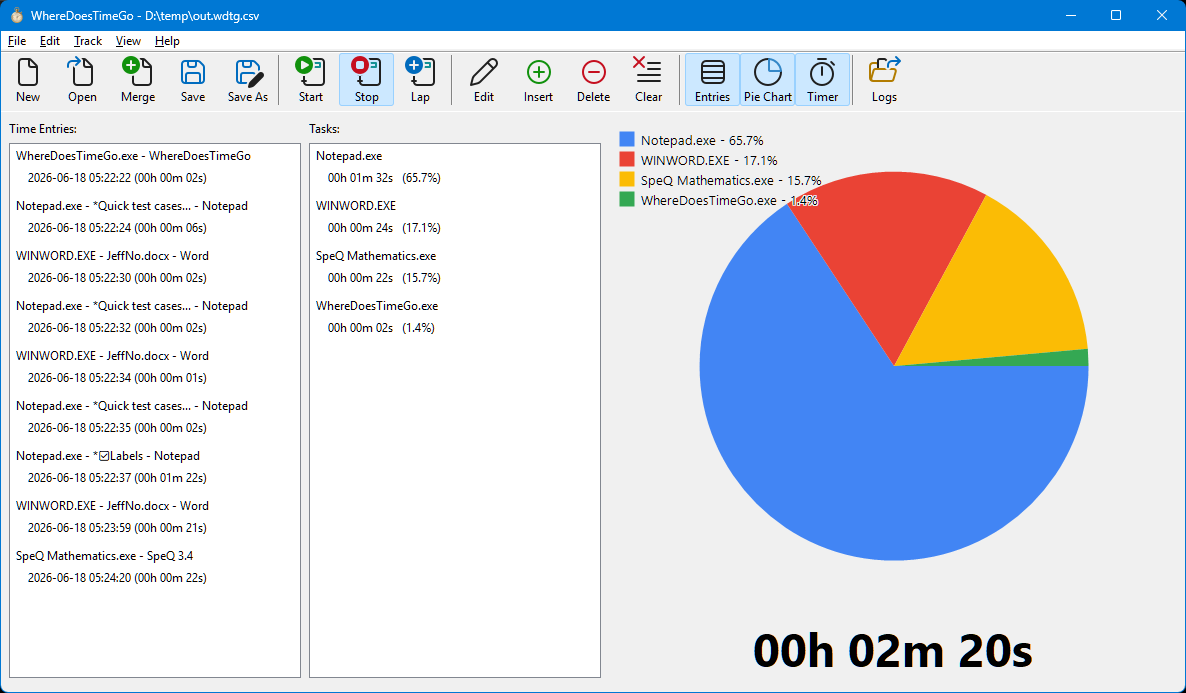
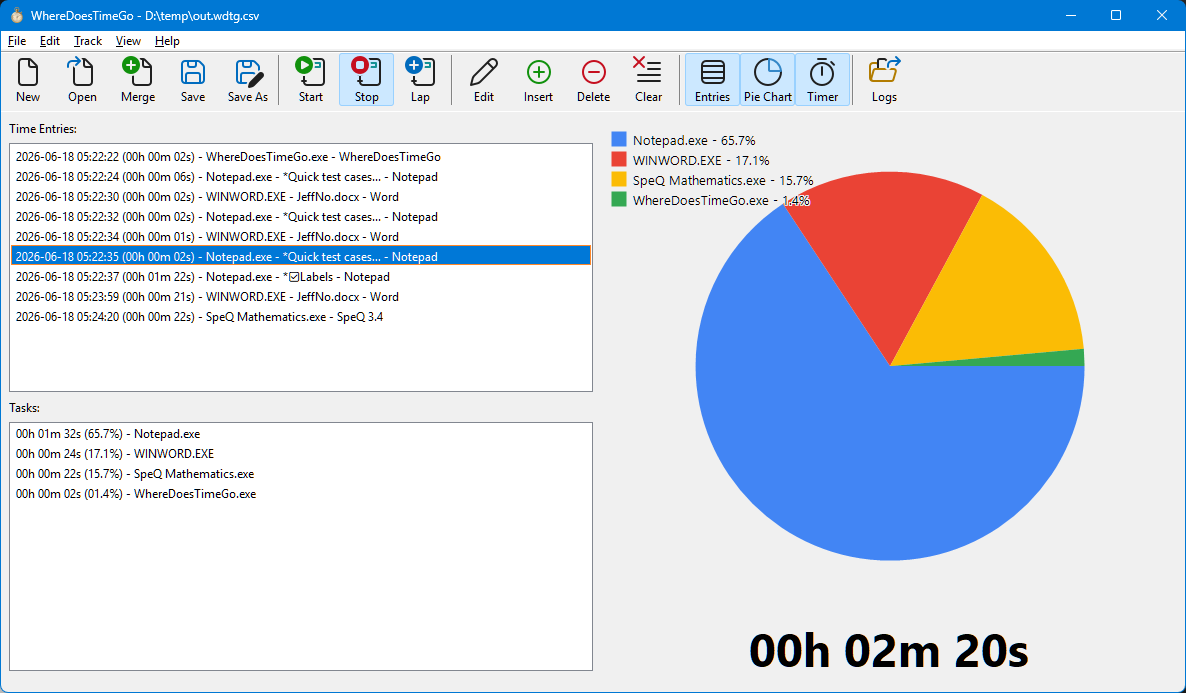
Fix open file dialog initial folder placement to use last location. Increase line spacing slightly of time records.

diff --git a/source/MainWindow.cpp b/source/MainWindow.cpp
@@ -314,8 +314,6 @@ void CreateControls(HWND hWnd)
         { ToolbarIcon::ShowTimeEntries, IDM_SHOW_TIME_ENTRIES, BYTE(TBSTATE_ENABLED | (g_showTimeEntries ? TBSTATE_CHECKED : 0)), BTNS_CHECK, {0}, 0, (INT_PTR)L"Entries" },
         { ToolbarIcon::ShowPieChart, IDM_SHOW_PIE_CHART, BYTE(TBSTATE_ENABLED | (g_showPieChart ? TBSTATE_CHECKED : 0)), BTNS_CHECK, {0}, 0, (INT_PTR)L"Pie Chart" },
         { ToolbarIcon::ShowTimer, IDM_SHOW_TIMER, BYTE(TBSTATE_ENABLED | (g_showTimer ? TBSTATE_CHECKED : 0)), BTNS_CHECK, {0}, 0, (INT_PTR)L"Timer" },
-        { 0, 0, 0, BTNS_SEP, {0}, 0, 0 },
-        { ToolbarIcon::LogsFolder, IDM_LOGS_FOLDER, TBSTATE_ENABLED, BTNS_BUTTON, {0}, 0, (INT_PTR)L"Logs" },
     };
 
     SendMessage(g_hWndToolbar, TB_ADDBUTTONS, sizeof(toolbarButtons) / sizeof(TBBUTTON), (LPARAM)&toolbarButtons);
@@ -1119,9 +1117,7 @@ void CopyOrGenerateTimeEntriesFilePath(std::span<wchar_t> targetFilename)
     {
         SYSTEMTIME now;
         GetSystemTime(&now);
-        std::wstring settingsPath = GetSettingsPath(true, false);
-        std::wstring baseFilename = settingsPath + L"\\Untitled-" + std::format(L"{0:04}-{1:02}-{2:02}_{3:02}-{4:02}-{5:02}", now.wYear, now.wMonth, now.wDay, now.wHour, now.wMinute, now.wSecond);
-        std::wstring filename = baseFilename + L".wdtg.csv";
+        std::wstring filename = L"\\Untitled-" + std::format(L"{0:04}-{1:02}-{2:02}_{3:02}-{4:02}-{5:02}", now.wYear, now.wMonth, now.wDay, now.wHour, now.wMinute, now.wSecond) + L".wdtg.csv";
         wcsncpy_s(targetFilename.data(), targetFilename.size(), filename.c_str(), _TRUNCATE);
     }
     else
@@ -1133,25 +1129,25 @@ void CopyOrGenerateTimeEntriesFilePath(std::span<wchar_t> targetFilename)
 
 void SaveAsToCSV(HWND hWnd)
 {
-    OPENFILENAME ofn = {};
+    OPENFILENAME openFileName = {};
     WCHAR filename[MAX_PATH * 4] = {};
     CopyOrGenerateTimeEntriesFilePath(/*out*/ filename);
 
-    ofn.lStructSize = sizeof(OPENFILENAME);
-    ofn.hwndOwner = hWnd;
-    ofn.lpstrFile = filename;
-    ofn.nMaxFile = DWORD(std::size(filename));
-    ofn.lpstrFilter = L"CSV Files (*.wdtg.csv)\0*.wdtg.csv\0All Files (*.*)\0*.*\0";
-    ofn.nFilterIndex = 1;
-    ofn.lpstrFileTitle = nullptr;
-    ofn.nMaxFileTitle = 0;
-    ofn.lpstrInitialDir = nullptr;
-    ofn.Flags = OFN_PATHMUSTEXIST | OFN_OVERWRITEPROMPT;
-    ofn.lpstrDefExt = L"wdtg.csv";
+    openFileName.lStructSize = sizeof(OPENFILENAME);
+    openFileName.hwndOwner = hWnd;
+    openFileName.lpstrFile = filename;
+    openFileName.nMaxFile = DWORD(std::size(filename));
+    openFileName.lpstrFilter = L"CSV Files (*.wdtg.csv)\0*.wdtg.csv\0All Files (*.*)\0*.*\0";
+    openFileName.nFilterIndex = 1;
+    openFileName.lpstrFileTitle = nullptr;
+    openFileName.nMaxFileTitle = 0;
+    openFileName.lpstrInitialDir = nullptr;
+    openFileName.Flags = OFN_PATHMUSTEXIST | OFN_OVERWRITEPROMPT;
+    openFileName.lpstrDefExt = L"wdtg.csv";
 
-    if (GetSaveFileName(&ofn))
+    if (GetSaveFileName(&openFileName))
     {
-        SetTimeEntriesFilePath(ofn.lpstrFile);
+        SetTimeEntriesFilePath(openFileName.lpstrFile);
         SaveToCSV(hWnd, g_timeEntriesFilePath.c_str());
     }
 }
@@ -1395,25 +1391,25 @@ void SortTimeEntriesByTime()
 
 void LoadFromCSV(HWND hWnd)
 {
-    OPENFILENAME ofn = {};
+    OPENFILENAME openFileName = {};
     WCHAR filename[MAX_PATH * 4] = {};
     CopyOrGenerateTimeEntriesFilePath(/*out*/ filename);
 
-    ofn.lStructSize = sizeof(OPENFILENAME);
-    ofn.hwndOwner = hWnd;
-    ofn.lpstrFile = filename;
-    ofn.nMaxFile = DWORD(std::size(filename));
-    ofn.lpstrFilter = L"CSV Files (*.wdtg.csv)\0*.wdtg.csv\0All Files (*.*)\0*.*\0";
-    ofn.nFilterIndex = 1;
-    ofn.lpstrFileTitle = nullptr;
-    ofn.nMaxFileTitle = 0;
-    ofn.lpstrInitialDir = nullptr;
-    ofn.Flags = OFN_PATHMUSTEXIST | OFN_FILEMUSTEXIST;
-    ofn.lpstrDefExt = L"wdtg.csv";
+    openFileName.lStructSize = sizeof(OPENFILENAME);
+    openFileName.hwndOwner = hWnd;
+    openFileName.lpstrFile = filename;
+    openFileName.nMaxFile = DWORD(std::size(filename));
+    openFileName.lpstrFilter = L"CSV Files (*.wdtg.csv)\0*.wdtg.csv\0All Files (*.*)\0*.*\0";
+    openFileName.nFilterIndex = 1;
+    openFileName.lpstrFileTitle = nullptr;
+    openFileName.nMaxFileTitle = 0;
+    openFileName.lpstrInitialDir = nullptr;
+    openFileName.Flags = OFN_PATHMUSTEXIST | OFN_FILEMUSTEXIST;
+    openFileName.lpstrDefExt = L"wdtg.csv";
 
-    if (GetOpenFileName(&ofn))
+    if (GetOpenFileName(&openFileName))
     {
-        SetTimeEntriesFilePath(ofn.lpstrFile);
+        SetTimeEntriesFilePath(openFileName.lpstrFile);
 
         std::wstring fileContent;
         if (!ReadTextFile(filename, fileContent))
@@ -1433,22 +1429,22 @@ void LoadFromCSV(HWND hWnd)
 
 void MergeFromCSV(HWND hWnd)
 {
-    OPENFILENAME ofn = {};
+    OPENFILENAME openFileName = {};
     WCHAR filename[MAX_PATH * 4] = {};
 
-    ofn.lStructSize = sizeof(OPENFILENAME);
-    ofn.hwndOwner = hWnd;
-    ofn.lpstrFile = filename;
-    ofn.nMaxFile = DWORD(std::size(filename));
-    ofn.lpstrFilter = L"CSV Files (*.wdtg.csv)\0*.wdtg.csv\0All Files (*.*)\0*.*\0";
-    ofn.nFilterIndex = 1;
-    ofn.lpstrFileTitle = nullptr;
-    ofn.nMaxFileTitle = 0;
-    ofn.lpstrInitialDir = nullptr;
-    ofn.Flags = OFN_PATHMUSTEXIST | OFN_FILEMUSTEXIST;
-    ofn.lpstrDefExt = L"wdtg.csv";
+    openFileName.lStructSize = sizeof(OPENFILENAME);
+    openFileName.hwndOwner = hWnd;
+    openFileName.lpstrFile = filename;
+    openFileName.nMaxFile = DWORD(std::size(filename));
+    openFileName.lpstrFilter = L"CSV Files (*.wdtg.csv)\0*.wdtg.csv\0All Files (*.*)\0*.*\0";
+    openFileName.nFilterIndex = 1;
+    openFileName.lpstrFileTitle = nullptr;
+    openFileName.nMaxFileTitle = 0;
+    openFileName.lpstrInitialDir = nullptr;
+    openFileName.Flags = OFN_PATHMUSTEXIST | OFN_FILEMUSTEXIST;
+    openFileName.lpstrDefExt = L"wdtg.csv";
 
-    if (GetOpenFileName(&ofn))
+    if (GetOpenFileName(&openFileName))
     {
         std::wstring fileContent;
         if (!ReadTextFile(filename, fileContent))
@@ -1809,35 +1805,19 @@ LRESULT CALLBACK WindowProcedure(HWND hWnd, UINT message, WPARAM wParam, LPARAM 
             break;
         case IDM_POLLING_1SEC:
             g_pollingInterval = 1000;
-            if (g_isTrackingTime)
-            {
-                KillTimer(hWnd, TIMER_TRACK_ID);
-                SetTimer(hWnd, TIMER_TRACK_ID, g_pollingInterval, nullptr);
-            }
+            UpdateTimer();
             break;
         case IDM_POLLING_10SEC:
             g_pollingInterval = 10000;
-            if (g_isTrackingTime)
-            {
-                KillTimer(hWnd, TIMER_TRACK_ID);
-                SetTimer(hWnd, TIMER_TRACK_ID, g_pollingInterval, nullptr);
-            }
+            UpdateTimer();
             break;
         case IDM_POLLING_60SEC:
             g_pollingInterval = 60000;
-            if (g_isTrackingTime)
-            {
-                KillTimer(hWnd, TIMER_TRACK_ID);
-                SetTimer(hWnd, TIMER_TRACK_ID, g_pollingInterval, nullptr);
-            }
+            UpdateTimer();
             break;
         case IDM_POLLING_10MIN:
             g_pollingInterval = 600000;
-            if (g_isTrackingTime)
-            {
-                KillTimer(hWnd, TIMER_TRACK_ID);
-                SetTimer(hWnd, TIMER_TRACK_ID, g_pollingInterval, nullptr);
-            }
+            UpdateTimer();
             break;
         case IDM_LOGS_FOLDER:
             {
@@ -1859,11 +1839,8 @@ LRESULT CALLBACK WindowProcedure(HWND hWnd, UINT message, WPARAM wParam, LPARAM 
 
         if (drawItemStruct->CtlID == IDC_RAW_TIME_ENTRY_LIST)
         {
-            if (drawItemStruct->itemID == -1)
-                break;
-
             size_t index = (size_t)drawItemStruct->itemID;
-            if (index >= g_timeEntries.size())
+            if (index >= g_timeEntries.size()) // This also covers the case of itemID == -1, since size_t(-1) is a very large number.
                 break;
 
             const TimeEntry& entry = g_timeEntries[index];
@@ -1874,10 +1851,6 @@ LRESULT CALLBACK WindowProcedure(HWND hWnd, UINT message, WPARAM wParam, LPARAM 
             HBRUSH backgroundBrush = CreateSolidBrush(colorBackground);
             FillRect(drawItemStruct->hDC, &drawItemStruct->rcItem, backgroundBrush);
             DeleteObjectAndNullify(backgroundBrush);
-
-            HFONT oldFont = (HFONT)SelectObject(drawItemStruct->hDC, g_hLabelFont);
-            SetBkMode(drawItemStruct->hDC, TRANSPARENT);
-            SetTextColor(drawItemStruct->hDC, colorText);
 
             RECT textRect = drawItemStruct->rcItem;
             textRect.left += 5;
@@ -1893,8 +1866,10 @@ LRESULT CALLBACK WindowProcedure(HWND hWnd, UINT message, WPARAM wParam, LPARAM 
                 text = text.substr(0, 252) + L"...";
             }
 
-            DrawText(drawItemStruct->hDC, text.c_str(), -1, &textRect, DT_SINGLELINE | DT_VCENTER | DT_LEFT);
-
+            HFONT oldFont = (HFONT)SelectObject(drawItemStruct->hDC, g_hLabelFont);
+            SetBkMode(drawItemStruct->hDC, TRANSPARENT);
+            SetTextColor(drawItemStruct->hDC, colorText);
+            DrawText(drawItemStruct->hDC, text.c_str(), int(text.size()), &textRect, DT_SINGLELINE | DT_VCENTER | DT_LEFT);
             SelectObject(drawItemStruct->hDC, oldFont);
 
             if (drawItemStruct->itemState & ODS_FOCUS)
@@ -1904,11 +1879,8 @@ LRESULT CALLBACK WindowProcedure(HWND hWnd, UINT message, WPARAM wParam, LPARAM 
         }
         else if (drawItemStruct->CtlID == IDC_AGGREGATED_TIME_ENTRY_LIST)
         {
-            if (drawItemStruct->itemID == -1)
-                break;
-
             size_t index = (size_t)drawItemStruct->itemID;
-            if (index >= g_aggregatedEntries.size())
+            if (index >= g_aggregatedEntries.size()) // This also covers the case of itemID == -1, since size_t(-1) is a very large number.
                 break;
 
             const AggregatedTimeEntry& entry = g_aggregatedEntries[index];
@@ -1926,7 +1898,6 @@ LRESULT CALLBACK WindowProcedure(HWND hWnd, UINT message, WPARAM wParam, LPARAM 
 
             RECT textRect = drawItemStruct->rcItem;
             textRect.left += 5;
-            textRect.top += 3;
 
             // Format: "duration (percentage%) - ProcessName"
             WCHAR buffer[256];
@@ -1954,12 +1925,13 @@ LRESULT CALLBACK WindowProcedure(HWND hWnd, UINT message, WPARAM wParam, LPARAM 
     }
     break;
 
+    // The default height is just slightly tight, which might have worked well for 1990's VGA era monitors.
     case WM_MEASUREITEM:
     {
         LPMEASUREITEMSTRUCT measureItemStruct = (LPMEASUREITEMSTRUCT)lParam;
         if (measureItemStruct->CtlID == IDC_RAW_TIME_ENTRY_LIST || measureItemStruct->CtlID == IDC_AGGREGATED_TIME_ENTRY_LIST)
         {
-            measureItemStruct->itemHeight = 20; // Single line height
+            measureItemStruct->itemHeight += 4; // Pad single line height.
         }
     }
     break;